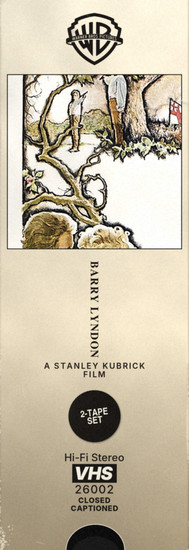
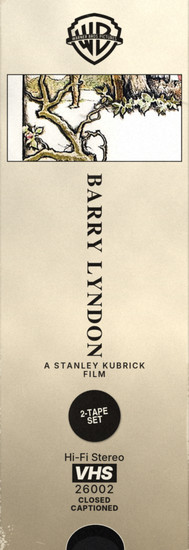
2020 spines, part 2 (120 of 147)
Claude-Session: https://claude.ai/code/session_01RnhGoJ5JrqYNVsQWFr1NjL

diff --git a/spinegen/tapes.py b/spinegen/tapes.py
@@ -3548,7 +3548,7 @@ std('defending-jacob-2020', ('grad', [(0, (60, 70, 60)), (.6, (22, 26, 22)), (1,
 # The Irishman: a 2-tape box (209 minutes), slate blue-grey, the red serif capitals (typeset), Frank, Russell and Jimmy
 std('the-irishman-2019', ('grad', [(0, (70, 80, 90)), (.6, (30, 34, 40)), (1, (8, 10, 12))]), (200, 30, 30),
     [T('THE', 'terb', 50, (214, 40, 40), track=.2), T('IRISHMAN', 'terb', 150, (214, 40, 40), track=.04)],
-    photo=ph(.55, .5, .6, .8), pb=(204, 34, 34), lg=WHT, lw=.5, order='LPTCSF', tgap=10, credit=['A MARTIN SCORSESE', 'PICTURE'], ccol=WHT,
+    photo=ph(.55, .42, .6, .5), pb=(204, 34, 34), lg=WHT, lw=.5, order='LPTCSF', tgap=10, credit=['A MARTIN SCORSESE', 'PICTURE'], ccol=WHT,
     stick=TWOST((204, 34, 34), WHT), ft='c', vbox=WHT, vink=(30, 34, 40), fcol=(200, 206, 214), fin=MINT, **TWO)
 
 # El Camino: A Breaking Bad Movie: the poster's red, white condensed capitals in the keyline box (typeset), Jesse
@@ -3778,7 +3778,7 @@ std('mary-and-max-2009', ('grad', [(0, (70, 70, 70)), (.6, (24, 24, 24)), (1, (6
 # Barry Lyndon (1975): an old 2-tape box (188 minutes), the poster's cream with the engraved border, black serif capitals (typeset), the border's figures
 std('barry-lyndon-1975', ('grad', [(0, (244, 238, 222)), (.6, (226, 216, 194)), (1, (160, 146, 120))]), (20, 18, 16),
     T('BARRY LYNDON', 'terb', 110, (20, 18, 16), track=.06),
-    photo=ph(.2, .2, .4, 1.0), pb=(20, 18, 16), lg=(20, 18, 16), lw=.5, order='LPTCSF', tgap=10, credit=['A STANLEY KUBRICK', 'FILM'], ccol=(20, 18, 16),
+    photo=ph(.2, .2, .4, .5), pb=(20, 18, 16), lg=(20, 18, 16), lw=.5, order='LPTCSF', tgap=10, credit=['A STANLEY KUBRICK', 'FILM'], ccol=(20, 18, 16),
     stick=TWOST((20, 18, 16), (244, 238, 222)), ft='c', vbox=(20, 18, 16), fcol=(20, 18, 16), fin=OLD, seed=1975, **TWO)
 
 # Three Colours: White (1994): the poster's white, the grey-blue heavy capitals (typeset), Dominique
@@ -3796,7 +3796,7 @@ std('three-colors-red-1994', ('grad', [(0, (210, 40, 50)), (.6, (150, 20, 30)), 
 # My Father and My Son (2005): the poster's plaster cream, the cream heavy capitals (typeset), father and son at the table
 std('my-father-and-my-son-2005', ('grad', [(0, (180, 150, 100)), (.6, (110, 90, 60)), (1, (30, 24, 16))]), (246, 230, 190),
     T('My Father and My Son', 'popb', 62, (248, 232, 194)),
-    photo=ph(.5, .8, .9, .6), pb=(248, 232, 194), lg=WHT, lw=.6, order='LPTCF', credit=['A FILM BY', 'ÇAĞAN IRMAK'], ccol=(248, 232, 194),
+    photo=ph(.25, .66, .4, 1.0), pb=(248, 232, 194), lg=WHT, lw=.6, order='LPTCF', credit=['A FILM BY', 'ÇAĞAN IRMAK'], ccol=(248, 232, 194),
     ft='a', vbox=(248, 232, 194), vink=(110, 90, 60), fcol=(230, 220, 200), fin=WORN, seed=2005)
 
 # Andhadhun: the poster's white and the piano's cyan, the cyan brush capitals (typeset), Akash and Sophie on the keys
@@ -3810,6 +3810,222 @@ std('hotel-rwanda-2004', ('grad', [(0, (240, 210, 170)), (.6, (210, 160, 110)), 
     T('HOTEL RWANDA', 'hcnb', 92, (20, 18, 16), squeeze=.76, bold=.8),
     photo=ph(.5, .15, .45, 1.0), pb=(20, 18, 16), lg=(20, 18, 16), lw=.6, order='LPTCF', credit=['DON CHEADLE'], ccol=(20, 18, 16),
     ft='a', vbox=(20, 18, 16), fcol=(20, 18, 16), fin=WORN, seed=2004)
+
+# Three Colours: Blue (1993): the pool's deep blue, the pale blue heavy capitals (typeset), Julie
+std('three-colors-blue-1993', ('grad', [(0, (30, 70, 140)), (.6, (12, 30, 70)), (1, (4, 10, 24))]), (90, 180, 230),
+    [T('THREE COLOURS', 'herb', 24, (220, 230, 240), track=.2), T('BLUE', 'hcnb', 120, (96, 186, 236), squeeze=.8, bold=.6)], tgap=8,
+    photo=ph(.5, .55, .45, 1.0), pb=(96, 186, 236), lg=WHT, lw=.6, order='LPTCF', credit=['A FILM BY', 'KIEŚLOWSKI'], ccol=(220, 230, 240),
+    ft='a', vbox=(96, 186, 236), vink=(12, 30, 70), fcol=(200, 210, 226), fin=WORN, seed=1993)
+
+# Amadeus (1984): an old tape, black, the white engraved capitals (typeset), the masked figure
+std('amadeus-1984', ('grad', [(0, (120, 50, 70)), (.4, (40, 16, 24)), (1, (6, 4, 4))]), WHT,
+    T('AMADEUS', 'ter', 100, WHT, track=.04),
+    photo=ph(.5, .25, .5, 1.0), pb=WHT, lg=WHT, lw=.6, order='LPTCSF', credit=['A MILOŠ FORMAN', 'FILM'], ccol=WHT,
+    stick=PRC(['$2.99', 'DRAMA']), ft='e', fcol=(220, 210, 210), fin=OLD, seed=1984)
+
+# Children of Heaven (1997): the poster's sky blue with the goldfish, orange serif capitals (typeset), the fish
+std('children-of-heaven-1997', ('grad', [(0, (60, 150, 230)), (.6, (30, 100, 190)), (1, (10, 30, 50))]), (240, 130, 40),
+    T('CHILDREN OF HEAVEN', 'ter', 66, (244, 136, 44), track=.04, outline=((60, 30, 10), 1.2)),
+    photo=ph(.6, .3, .5, 1.0), pb=(244, 136, 44), lg=WHT, lw=.6, order='LPTCF', credit=['A MAJID MAJIDI', 'FILM'], ccol=WHT,
+    ft='a', vbox=(244, 136, 44), vink=(30, 100, 190), fcol=WHT, fin=WORN, seed=1997)
+
+# Alone in the Wilderness: Part II: Twin Lakes green, the white serif lettering (typeset), Dick by the water (no logo file: its company in type)
+std('alone-in-the-wilderness-part-ii-2011', ('grad', [(0, (90, 140, 150)), (.5, (60, 90, 50)), (1, (20, 30, 14))]), WHT,
+    [T('Alone in the Wilderness', 'ter', 56, WHT), T('PART II', 'ter', 26, WHT, track=.2)], tgap=6,
+    photo=ph(.6, .62, .45, 1.0), pb=WHT, studio=['BOB SWERER', 'PRODUCTIONS'], scol=WHT, order='lPTCF', credit=['A DOCUMENTARY'], ccol=WHT,
+    ft='a', vbox=WHT, vink=(60, 90, 50), fcol=(220, 230, 214), fin=SLIP)
+
+# Gangs of Wasseypur - Part 1: dusty teal and rickshaw paint, the red slab capitals (typeset), the fight (no logo file: its company in type)
+std('gangs-of-wasseypur-part-1-2012', ('grad', [(0, (180, 170, 140)), (.5, (70, 90, 90)), (1, (20, 24, 24))]), (190, 30, 30),
+    [T('GANGS OF WASSEYPUR', 'bonb', 62, (196, 34, 34), outline=((250, 240, 220), 1.4)), T('PART 1', 'herb', 26, WHT, track=.2)], tgap=8,
+    photo=ph(.4, .45, .5, 1.0), pb=(196, 34, 34), studio=['JAR PICTURES'], scol=(30, 30, 30), order='lPTCF', credit=['AN ANURAG KASHYAP', 'FILM'], ccol=WHT,
+    ft='a', vbox=(196, 34, 34), fcol=WHT, fin=SLIP)
+
+# X-Men: Days of Future Past: the burning future's amber, silver capitals (typeset), Logan
+std('x-men-days-of-future-past-2014', ('grad', [(0, (170, 130, 80)), (.5, (70, 50, 40)), (1, (14, 10, 8))]), (220, 224, 230),
+    [T('X-MEN', 'intbk', 92, WHT, grad=[(0, (250, 250, 255)), (.5, (150, 160, 176)), (1, (230, 234, 240))]), T('DAYS OF FUTURE PAST', 'herb', 24, (220, 224, 230), track=.2)], tgap=8,
+    photo=ph(.68, .14, .3, 1.0), pb=(220, 224, 230), lg=WHT, lw=.6, order='LPTCF', credit=['PATRICK STEWART', 'HUGH JACKMAN'], ccol=WHT,
+    ft='a', vbox=(220, 224, 230), vink=(70, 50, 40), fcol=(220, 210, 200), fin=SLIP)
+
+# Your Name. (2016): the comet sky's blue, the white handwritten title (typeset), Mitsuha on the hill
+std('your-name-2016', ('grad', [(0, (80, 150, 230)), (.6, (40, 100, 200)), (1, (20, 50, 100))]), WHT,
+    T('your name.', 'cho', 110, WHT),
+    photo=ph(.75, .75, .4, 1.0), pb=WHT, lg=WHT, lw=.6, order='LPTCSF', credit=['A MAKOTO SHINKAI', 'FILM'], ccol=WHT,
+    stick=flow(dot, 70, ['ANIME'], (220, 60, 100), d=60), ft='a', vbox=WHT, vink=(40, 100, 200), fcol=WHT, fin=SLIP)
+
+# Capernaum: Beirut sky blue, white spaced capitals (typeset), Zain on the road
+std('capernaum-2018', ('grad', [(0, (60, 160, 200)), (.6, (40, 90, 110)), (1, (30, 24, 20))]), WHT,
+    T('CAPERNAUM', 'her', 72, WHT, track=.3),
+    photo=ph(.45, .55, .5, 1.0), pb=WHT, lg=WHT, lw=.6, order='LPTCF', credit=['A NADINE LABAKI', 'FILM'], ccol=WHT,
+    ft='a', vbox=WHT, vink=(40, 90, 110), fcol=(220, 226, 230), fin=MINT)
+
+# Metropolis (1927): an old tape, silver-black, the yellow art-deco capitals (typeset), Maria the machine
+std('metropolis-1927', ('grad', [(0, (70, 70, 72)), (.6, (24, 24, 26)), (1, (6, 6, 6))]), (230, 220, 60),
+    T('METROPOLIS', 'adv', 84, (232, 222, 64), track=.1, bold=.4),
+    photo=ph(.45, .35, .5, 1.0), pb=(232, 222, 64), lg=WHT, lw=.6, order='LPTCSF', credit=['A FRITZ LANG', 'FILM'], ccol=(232, 222, 64),
+    stick=PRC(['$1.99', 'SILENT']), ft='e', fcol=(210, 210, 200), fin=OLD, seed=1927)
+
+# Drishyam (2015): Goa monsoon green, white stencil capitals (typeset), Vijay at the head
+std('drishyam-2015', ('grad', [(0, (70, 90, 60)), (.6, (28, 36, 24)), (1, (8, 10, 6))]), WHT,
+    T('DRISHYAM', 'intbk', 92, WHT, rough=.5),
+    photo=ph(.5, .12, .4, 1.0), pb=(220, 180, 60), lg=WHT, lw=.6, order='LPTCF', credit=['AJAY DEVGN', 'TABU'], ccol=WHT,
+    ft='a', vbox=(220, 180, 60), vink=(28, 36, 24), fcol=(210, 216, 200), fin=SLIP)
+
+# Elite Squad (2007): the poster's red, white heavy capitals (typeset), the BOPE squad
+std('elite-squad-2007', ('grad', [(0, (200, 30, 30)), (.6, (130, 16, 16)), (1, (30, 6, 6))]), WHT,
+    T('ELITE SQUAD', 'intbk', 84, WHT, squeeze=.86),
+    photo=ph(.27, .75, .35, 1.0), pb=WHT, lg=WHT, lw=.6, order='LPTCF', credit=['WAGNER MOURA'], ccol=WHT,
+    ft='a', vbox=WHT, vink=(130, 16, 16), fcol=(240, 210, 206), fin=WORN, seed=2007)
+
+# M (1931): an old tape, black, the red chalked M (typeset), the marked hand
+std('m-1931', ('grad', [(0, (40, 36, 34)), (.6, (14, 12, 12)), (1, (4, 4, 4))]), (200, 40, 40),
+    T('M', 'bonb', 200, (204, 44, 44), rough=.6),
+    photo=ph(.5, .5, .6, 1.0), pb=(204, 44, 44), lg=WHT, lw=.6, order='LPTCF', credit=['PETER LORRE', 'A FRITZ LANG FILM'], ccol=(220, 214, 204),
+    ft='e', fcol=(220, 214, 204), fin=OLD, seed=1931)
+
+# Talk to Her (2002): the poster's blue-and-red split, red talk, white to and blue her (typeset), Alicia and Lydia
+std('talk-to-her-2002', ('grad', [(0, (120, 150, 180)), (.5, (180, 40, 40)), (1, (40, 8, 8))]), WHT,
+    TT([('talk', (220, 40, 40)), ('to', WHT), ('her', (60, 170, 230))], 'schb', 100, sp=.15, outline=((20, 20, 30), 1.4)),
+    photo=ph(.3, .3, .5, 1.0), pb=WHT, lg=WHT, lw=.6, order='LPTCF', credit=['A FILM BY', 'ALMODÓVAR'], ccol=WHT,
+    ft='a', vbox=WHT, vink=(180, 40, 40), fcol=(230, 220, 220), fin=WORN, seed=2002)
+
+# Ray (2004): stage black and spotlight blue, the white script (typeset), Ray at the piano
+std('ray-2004', ('grad', [(0, (60, 80, 110)), (.6, (16, 22, 32)), (1, (4, 6, 8))]), WHT,
+    T('Ray', 'cho', 180, WHT),
+    photo=ph(.4, .4, .5, 1.0), pb=WHT, lg=WHT, lw=.6, order='LPTCF', credit=['JAMIE FOXX'], ccol=WHT,
+    ft='a', vbox=WHT, vink=(16, 22, 32), fcol=(190, 200, 214), fin=WORN, seed=2004)
+
+# Shutter Island (2010): storm black and the match's glow, the red stencil capitals (typeset), Teddy's eyes
+std('shutter-island-2010', ('grad', [(0, (50, 56, 60)), (.6, (16, 18, 20)), (1, (4, 4, 4))]), (210, 30, 30),
+    T('SHUTTER ISLAND', 'hcnb', 84, (214, 32, 32), squeeze=.76, bold=.8, rough=.4),
+    photo=ph(.5, .15, .5, 1.0), pb=(214, 32, 32), lg=WHT, lw=.6, order='LPTCF', credit=['LEONARDO DiCAPRIO'], ccol=WHT,
+    ft='a', vbox=(214, 32, 32), fcol=(200, 200, 204), fin=SLIP, seed=2010)
+
+# Portrait of a Lady on Fire: Brittany night, the white handwriting (typeset), Héloïse with her dress alight
+std('portrait-of-a-lady-on-fire-2019', ('grad', [(0, (40, 34, 30)), (.6, (14, 12, 10)), (1, (40, 16, 6))]), WHT,
+    T('Portrait of a Lady on Fire', 'cho', 76, WHT),
+    photo=ph(.5, .75, .45, 1.0), pb=(240, 160, 60), lg=WHT, lw=.6, order='LPTCF', credit=['A CÉLINE SCIAMMA', 'FILM'], ccol=WHT,
+    ft='a', vbox=(240, 160, 60), vink=(14, 12, 10), fcol=(210, 200, 190), fin=MINT, dotst=(['STAFF', 'PICK'], (200, 60, 30)))
+
+# The Great Dictator (1940): an old tape, the poster's lemon yellow, the red script Great and DICTATOR (typeset), Hynkel and the globe (no logo file: Chaplin's company in type)
+std('the-great-dictator-1940', ('grad', [(0, (246, 236, 140)), (.6, (236, 220, 110)), (1, (160, 140, 60))]), (200, 30, 40),
+    TT([('THE', (200, 30, 40)), ('Great', (200, 30, 40)), ('DICTATOR', (200, 30, 40))], 'hcnb', 80, sp=.2, squeeze=.8, bold=.6),
+    photo=ph(.6, .2, .45, 1.0), pb=(200, 30, 40), studio=['CHARLES CHAPLIN', 'PRODUCTIONS'], scol=(40, 30, 20), order='lPTCSF', credit=['CHARLES CHAPLIN'], ccol=(40, 30, 20),
+    stick=PRC(['$2.99', 'CLASSIC']), ft='e', fcol=(40, 30, 20), fin=OLD, seed=1940)
+
+# Warriors of the Wind (1984): the US cut of Nausicaä, but the poster is Nausicaä's, so the spine is too: Ghibli sky blue, the white serif capitals (typeset), Nausicaä by the Ohmu
+std('warriors-of-the-wind-1984', ('grad', [(0, (60, 140, 220)), (.5, (150, 200, 230)), (1, (190, 170, 130))]), WHT,
+    [T('NAUSICAÄ', 'ter', 84, WHT, track=.06, outline=((30, 60, 120), 1.4)), T('OF THE VALLEY OF THE WIND', 'ter', 26, WHT, track=.08, outline=((30, 60, 120), 1.0))], tgap=8,
+    photo=ph(.6, .38, .4, 1.0), pb=WHT, lg=WHT, lw=.6, order='LPTCSF', credit=['A HAYAO MIYAZAKI', 'FILM'], ccol=(30, 50, 90),
+    stick=flow(dot, 70, ['ANIME'], (220, 60, 100), d=60), ft='a', vbox=(30, 50, 90), fcol=(30, 50, 90), fin=WORN, seed=1984)
+
+# The Last Samurai (2003): the poster's ember orange, the copper serif capitals (typeset), Algren in armour
+std('the-last-samurai-2003', ('grad', [(0, (220, 120, 70)), (.5, (130, 50, 30)), (1, (20, 8, 6))]), (240, 180, 130),
+    [T('THE', 'ter', 30, (244, 186, 136), track=.4), T('LAST SAMURAI', 'ter', 76, (244, 186, 136), track=.1)], tgap=6,
+    photo=ph(.4, .18, .4, 1.0), pb=(244, 186, 136), lg=WHT, lw=.6, order='LPTCF', credit=['TOM CRUISE', 'KEN WATANABE'], ccol=WHT,
+    ft='a', vbox=(244, 186, 136), vink=(130, 50, 30), fcol=(240, 210, 190), fin=WORN, seed=2003)
+
+# Das Boot (1981): an old tape, the North Atlantic blue, the white weathered capitals (typeset), the captain
+std('das-boot-1981', ('grad', [(0, (40, 100, 160)), (.6, (16, 44, 76)), (1, (4, 12, 22))]), WHT,
+    [T('DAS BOOT', 'bonb', 96, WHT, rough=.8), T('A WOLFGANG PETERSEN FILM', 'herb', 20, WHT, track=.2)], tgap=8,
+    photo=ph(.5, .4, .55, 1.0), pb=WHT, lg=WHT, lw=.6, order='LPTCSF', credit=['JÜRGEN PROCHNOW'], ccol=WHT,
+    stick=BAR('15 01981', top='WAR', fill=(236, 232, 214), ink=(30, 40, 60)), ft='e', fcol=(200, 210, 224), fin=OLD, seed=1981)
+
+# City Lights (1931): an old tape, the poster's teal, the green brush lettering (typeset), the Tramp in the ring (no logo file: Chaplin's company in type)
+std('city-lights-1931', ('grad', [(0, (60, 140, 160)), (.6, (30, 80, 100)), (1, (10, 26, 30))]), (60, 140, 60),
+    T('City Lights', 'cho', 110, (90, 170, 80), outline=((240, 230, 140), 2.0)),
+    photo=ph(.5, .25, .4, 1.0), pb=(240, 230, 140), studio=['CHARLES CHAPLIN', 'PRODUCTIONS'], scol=WHT, order='lPTCF', credit=['CHARLES CHAPLIN'], ccol=WHT,
+    ft='e', fcol=(220, 230, 230), fin=OLD, seed=1931)
+
+# Judgment at Nuremberg (1961): an old 2-tape box (191 minutes), black, white condensed capitals (typeset), the faces (no logo file: its distributor in type)
+std('judgment-at-nuremberg-1961', ('grad', [(0, (50, 50, 50)), (.6, (16, 16, 16)), (1, (4, 4, 4))]), WHT,
+    [T('JUDGMENT AT', 'hcnb', 70, WHT, squeeze=.74, bold=.4), T('NUREMBERG', 'hcnb', 150, WHT, squeeze=.74, bold=.6)],
+    photo=ph(.5, .35, .5, .5), pb=WHT, studio=['UNITED ARTISTS'], scol=WHT, order='lPTCSF', tgap=10, credit=['SPENCER TRACY', 'BURT LANCASTER'], ccol=WHT,
+    stick=TWOST(WHT, (16, 16, 16)), ft='c', vbox=WHT, vink=(16, 16, 16), fcol=(200, 200, 200), fin=OLD, seed=1961, **TWO)
+
+# To Be or Not to Be (1942): an old tape, the poster's yellow, the navy heavy capitals (typeset), Maria and Joseph (no logo file: its distributor in type)
+std('to-be-or-not-to-be-1942', ('grad', [(0, (246, 236, 150)), (.6, (236, 222, 120)), (1, (160, 140, 70))]), (30, 40, 140),
+    TT([('TO BE', (30, 40, 140)), ('or', (200, 30, 30)), ('NOT', (30, 40, 140)), ('to', (200, 30, 30)), ('BE', (30, 40, 140))], 'intbk', 74, sp=.18, squeeze=.84),
+    photo=ph(.5, .3, .6, 1.0), pb=(30, 40, 140), studio=['UNITED ARTISTS'], scol=(30, 40, 140), order='lPTCF', credit=['CAROLE LOMBARD', 'JACK BENNY'], ccol=(30, 40, 140),
+    ft='e', fcol=(30, 40, 140), fin=OLD, seed=1942)
+
+# My Neighbor Totoro (1988): a Ghibli tape (a slipcase), the rainy forest green, the white serif capitals (typeset), Totoro at the bus stop
+std('my-neighbor-totoro-1988', ('grad', [(0, (60, 90, 70)), (.6, (24, 40, 30)), (1, (8, 14, 10))]), WHT,
+    [T('My Neighbor', 'ter', 40, WHT), T('TOTORO', 'terb', 100, WHT, track=.02)], tgap=6,
+    photo=ph(.62, .55, .55, 1.0), pb=WHT, lg=WHT, lw=.6, order='LPTCSF', credit=['A HAYAO MIYAZAKI', 'FILM'], ccol=WHT,
+    stick=PRC(['$2.99', 'FAMILY']), ft='a', vbox=WHT, vink=(24, 40, 30), fcol=(210, 220, 214), fin=WORN, seed=1988)
+
+# Deliverance (1972): an old tape, the river's pale blue, the navy heavy lettering (typeset), the hand and the rifle
+std('deliverance-1972', ('grad', [(0, (210, 226, 236)), (.6, (170, 196, 214)), (1, (90, 110, 130))]), (30, 50, 130),
+    T('Deliverance', 'intbk', 84, (30, 52, 134), squeeze=.86),
+    photo=ph(.5, .5, .45, 1.0), pb=(30, 52, 134), lg=(30, 52, 134), lw=.6, order='LPTCSF', credit=['JON VOIGHT', 'BURT REYNOLDS'], ccol=(30, 52, 134),
+    stick=PRC(['$1.99', 'THRILLER']), ft='e', fcol=(30, 52, 134), fin=OLD, seed=1972)
+
+# Life of Brian (1979): an old tape, space black, the orange stone block capitals (typeset), the camels on the horizon
+std('life-of-brian-1979', ('grad', [(0, (30, 30, 60)), (.6, (10, 10, 24)), (1, (4, 4, 8))]), (246, 160, 40),
+    TT([('LIFE', (248, 170, 50)), ('of', (248, 210, 60)), ('BRIAN', (248, 170, 50))], 'bonb', 96, sp=.15, outline=((120, 40, 10), 1.8), shadow=((90, 30, 10), 4, 4)),
+    photo=ph(.25, .7, .4, 1.0), pb=(248, 170, 50), lg=WHT, lw=.6, order='LPTCSF', credit=['GRAHAM CHAPMAN', 'JOHN CLEESE'], ccol=WHT,
+    stick=flow(dot, 70, ['CULT'], (40, 120, 200), d=60), ft='e', fcol=(200, 200, 214), fin=OLD, seed=1979)
+
+# Downfall (2004): Berlin smoke black, the red condensed capitals (typeset), Hitler in his cap
+std('downfall-2004', ('grad', [(0, (60, 60, 60)), (.6, (20, 20, 20)), (1, (4, 4, 4))]), (220, 30, 30),
+    T('DOWNFALL', 'hcnb', 104, (224, 32, 32), squeeze=.76, bold=.6),
+    photo=ph(.5, .2, .45, 1.0), pb=(224, 32, 32), lg=WHT, lw=.6, order='LPTCF', credit=['BRUNO GANZ'], ccol=WHT,
+    ft='a', vbox=(224, 32, 32), fcol=(200, 200, 200), fin=WORN, seed=2004)
+
+# The King of Kong: A Fistful of Quarters: the poster's arcade navy, orange curved capitals (typeset), Steve and Billy in their medallions
+std('the-king-of-kong-a-fistful-of-quarters-2007', ('grad', [(0, (30, 70, 160)), (.6, (16, 34, 80)), (1, (6, 12, 30))]), (246, 160, 40),
+    [T('THE KING OF KONG', 'intbk', 66, (248, 166, 46), squeeze=.86), T('A FISTFUL OF QUARTERS', 'herb', 24, (248, 166, 46), track=.1)], tgap=8,
+    photo=ph(.5, .32, .7, .6), pb=(248, 166, 46), lg=WHT, lw=.6, order='LPTCF', credit=['A DOCUMENTARY'], ccol=WHT,
+    ft='a', vbox=(248, 166, 46), vink=(16, 34, 80), fcol=(200, 210, 230), fin=WORN, seed=2007)
+
+# Cinema Paradiso (1988): the projection booth's black and gold, the gold art-deco lettering, Totò's smile
+std('cinema-paradiso-1988', ('grad', [(0, (60, 40, 20)), (.6, (20, 14, 8)), (1, (4, 4, 2))]), (240, 214, 130),
+    [T('cinema', 'cho', 50, (244, 218, 134)), T('PARADISO', 'adv', 84, (244, 218, 134), track=.08, bold=.4)], tgap=6,
+    photo=ph(.6, .22, .5, 1.0), pb=(244, 218, 134), lg=WHT, lw=.6, order='LPTCSF', credit=['A GIUSEPPE TORNATORE', 'FILM'], ccol=(244, 218, 134),
+    stick=RWD(fill=(250, 240, 220)), ft='a', vbox=(244, 218, 134), vink=(20, 14, 8), fcol=(210, 200, 180), fin=RENTAL, seed=1988)
+
+# Sherlock Jr. (1924): an old tape, the sepia-white, dark condensed capitals (typeset), Buster with his book
+std('sherlock-jr-1924', ('grad', [(0, (226, 222, 214)), (.6, (190, 184, 172)), (1, (100, 94, 84))]), (40, 40, 40),
+    T('SHERLOCK, JR.', 'hcnb', 80, (40, 40, 40), squeeze=.8, bold=.4),
+    photo=ph(.5, .45, .5, 1.0), pb=(40, 40, 40), lg=(40, 40, 40), lw=.6, order='LPTCF', credit=['BUSTER KEATON'], ccol=(40, 40, 40),
+    ft='e', fcol=(40, 40, 40), fin=OLD, seed=1924)
+
+# Andrei Rublev (1966): an old tape, the poster's white, thin spaced capitals (typeset), Rublev with his halo
+std('andrei-rublev-1966', ('grad', [(0, (240, 238, 232)), (.6, (216, 212, 204)), (1, (140, 134, 124))]), (30, 30, 30),
+    T('ANDREI RUBLEV', 'her', 60, (30, 30, 30), track=.4),
+    photo=ph(.48, .2, .4, 1.0), pb=(30, 30, 30), lg=(30, 30, 30), lw=.6, order='LPTCF', credit=['AN ANDREI TARKOVSKY', 'FILM'], ccol=(30, 30, 30),
+    ft='e', fcol=(30, 30, 30), fin=OLD, seed=1966)
+
+# Cinderella Man (2005): the fight-night green, the cream serif (typeset), Jim and Mae
+std('cinderella-man-2005', ('grad', [(0, (40, 70, 60)), (.6, (14, 26, 22)), (1, (4, 8, 6))]), (240, 230, 210),
+    T('Cinderella Man', 'ter', 84, (242, 232, 212)),
+    photo=ph(.4, .2, .5, 1.0), pb=(242, 232, 212), lg=WHT, lw=.6, order='LPTCF', credit=['RUSSELL CROWE', 'RENÉE ZELLWEGER'], ccol=(242, 232, 212),
+    ft='a', vbox=(242, 232, 212), vink=(14, 26, 22), fcol=(200, 210, 204), fin=WORN, seed=2005)
+
+# The Invisible Guest: the lake's grey-blue, thin spaced capitals (typeset), Adrián on the water
+std('the-invisible-guest-2017', ('grad', [(0, (200, 212, 222)), (.6, (160, 176, 190)), (1, (90, 104, 118))]), (40, 50, 60),
+    T('THE INVISIBLE GUEST', 'her', 56, (40, 50, 60), track=.25),
+    photo=ph(.5, .32, .4, 1.0), pb=(40, 50, 60), lg=(40, 50, 60), lw=.6, order='LPTCF', credit=['AN ORIOL PAULO', 'FILM'], ccol=WHT,
+    ft='a', vbox=WHT, vink=(40, 50, 60), fcol=WHT, fin=SLIP)
+
+# The Elephant Man (1980): an old tape, black, the white Victorian wood-type (typeset), John in his hood
+std('the-elephant-man-1980', ('grad', [(0, (50, 50, 50)), (.6, (16, 16, 16)), (1, (4, 4, 4))]), WHT,
+    T('THE ELEPHANT MAN', 'bonb', 76, WHT, rough=.4),
+    photo=ph(.4, .3, .5, 1.0), pb=WHT, lg=WHT, lw=.6, order='LPTCSF', credit=['A DAVID LYNCH', 'FILM'], ccol=WHT,
+    stick=BAR('15 01980', top='DRAMA', fill=(226, 220, 240), ink=(40, 30, 70)), ft='e', fcol=(200, 200, 200), fin=OLD, seed=1980)
+
+# Midnight Cowboy (1969): an old tape, the poster's sunrise circles, the gold slab capitals (typeset), Ratso and Joe
+std('midnight-cowboy-1969', ('grad', [(0, (240, 80, 120)), (.4, (200, 60, 140)), (.75, (60, 180, 160)), (1, (20, 40, 40))]), (250, 220, 120),
+    T('MIDNIGHT COWBOY', 'bonb', 70, (252, 224, 124), outline=((60, 20, 30), 1.6)),
+    photo=ph(.5, .65, .6, 1.0), pb=(252, 224, 124), lg=WHT, lw=.6, order='LPTCSF', credit=['DUSTIN HOFFMAN', 'JON VOIGHT'], ccol=WHT,
+    stick=PRC(['$2.49', 'DRAMA']), ft='e', fcol=WHT, fin=OLD, seed=1969)
+
+# Bound (1996): a real rental, black and white, the black heavy capitals (typeset), Violet and Corky
+std('bound-1996', ('grad', [(0, (246, 244, 240)), (.6, (220, 216, 210)), (1, (140, 136, 130))]), (20, 18, 18),
+    T('BOUND', 'intbk', 120, (20, 18, 18)),
+    photo=ph(.5, .3, .6, 1.0), pb=(20, 18, 18), lg=(20, 18, 18), lw=.6, order='LPTCF', credit=['JENNIFER TILLY', 'GINA GERSHON'], ccol=(20, 18, 18),
+    ft='a', vbox=(20, 18, 18), fcol=(20, 18, 18), fin=RENTAL, seed=1996)
 
 
 if __name__ == '__main__':
